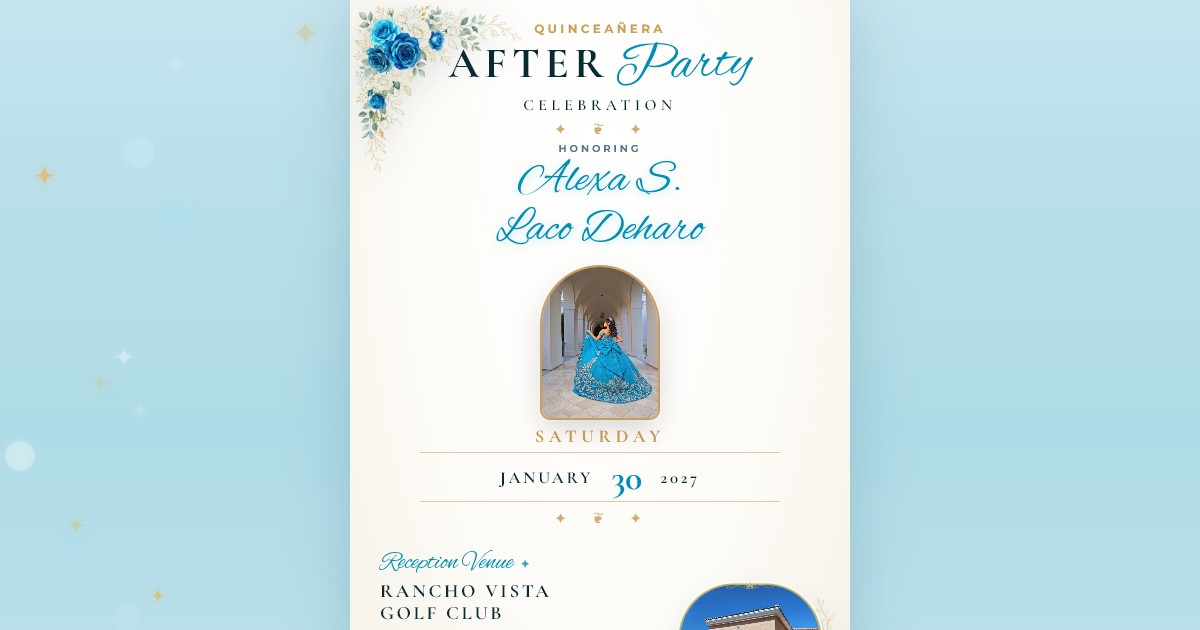
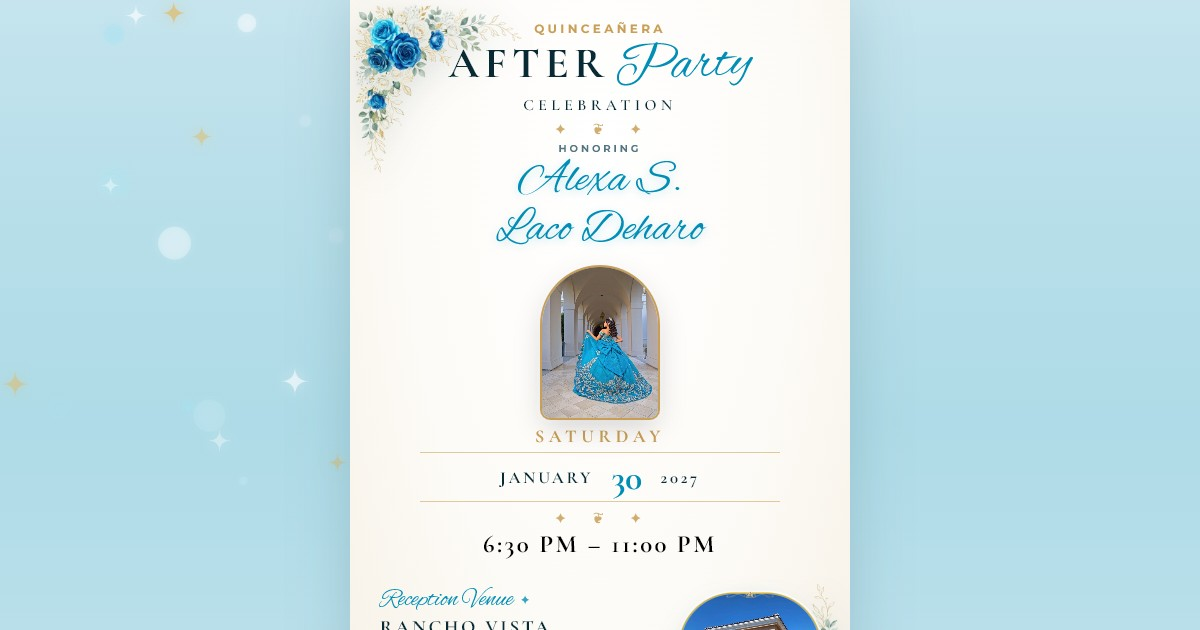
Move event time to circled space under date in bold black text on alexadeharoafter

diff --git a/alexadeharoafter/index.html b/alexadeharoafter/index.html
@@ -89,8 +89,8 @@
           </div>
         </section>
 
-        <!-- Event Details: Date -->
-        <section class="details-section" aria-label="Event Date">
+        <!-- Event Details: Date & Time -->
+        <section class="details-section" aria-label="Event Date and Time">
           <p class="event-day-name">SATURDAY</p>
           <div class="date-badge-row">
             <span class="date-badge-month">JANUARY</span>
@@ -98,14 +98,17 @@
             <span class="date-badge-year">2027</span>
           </div>
           <div class="fleuron-divider small-fleuron" aria-hidden="true">✦ &nbsp; ❦ &nbsp; ✦</div>
+          <div class="event-time-highlight">
+            <span>6:30 PM &ndash; 11:00 PM</span>
+          </div>
         </section>
 
-        <!-- Venue Section with Golf Club Photo and Obvious Big Time (Matching Main Invite Design) -->
-        <section class="venue-section" aria-label="Venue and Time">
+        <!-- Venue Section with Golf Club Photo (Matching Main Invite Design) -->
+        <section class="venue-section" aria-label="Venue">
           
           <div class="venue-stage venue-stage-reception">
             
-            <!-- Left: Venue details & Prominent Time between gold hairlines -->
+            <!-- Left: Venue details & Maps Link -->
             <div class="venue-copy">
               <div class="venue-header-row">
                 <span class="venue-role-badge">Reception Venue</span>
@@ -113,11 +116,6 @@
               </div>
               <h3 class="venue-title">RANCHO VISTA<br />GOLF CLUB</h3>
               <p class="venue-address">3905 Club Rancho Dr<br />Palmdale, CA 93551</p>
-
-              <!-- Prominent, Obvious Big Time (between two gold hairlines) -->
-              <div class="venue-time-tag">
-                <span>6:30 PM &ndash; 11:00 PM</span>
-              </div>
 
               <!-- Quiet Underlined Map Link (Open in Maps) -->
               <a href="https://www.google.com/maps/search/?api=1&amp;query=Rancho+Vista+Golf+Club,+3905+Club+Rancho+Dr,+Palmdale,+CA+93551"

diff --git a/alexadeharoafter/style.css b/alexadeharoafter/style.css
@@ -319,6 +319,24 @@ body {
   padding: 0 0.3rem;
 }
 
+/* ── Event Time Highlight (Circled Section: Black Text) ── */
+.event-time-highlight {
+  margin: clamp(0.2rem, 0.7vh, 0.45rem) 0 0.1rem;
+  display: flex;
+  align-items: center;
+  justify-content: center;
+  width: 100%;
+}
+
+.event-time-highlight span {
+  font-family: var(--font-serif);
+  font-size: clamp(1.25rem, 3.8vw, 1.55rem);
+  font-weight: 700;
+  letter-spacing: 0.10em;
+  color: #000000; /* Explicit black text as requested */
+  line-height: 1.15;
+}
+
 /* ── Venue Section (Matching Main Invitation Design / Attachment 1) ── */
 .venue-section {
   width: 100%;
@@ -334,7 +352,7 @@ body {
   width: 100%;
 }
 
-/* Left: Venue details & Big Prominent Time */
+/* Left: Venue details & Maps Link */
 .venue-copy {
   flex: 1;
   display: flex;
@@ -386,22 +404,7 @@ body {
   letter-spacing: 0.01em;
   line-height: 1.35;
   color: #334155;
-  margin-bottom: 0.65rem;
-}
-
-/* ── Obvious Big Time (Framed between gold hairlines like Attachment 1) ── */
-.venue-time-tag {
-  width: 100%;
-  border-top: 1px solid rgba(201, 159, 87, 0.75);
-  border-bottom: 1px solid rgba(201, 159, 87, 0.75);
-  padding: 0.4rem 0.1rem;
-  font-family: var(--font-serif);
-  font-size: clamp(1.22rem, 3.6vw, 1.4rem);
-  font-weight: 700;
-  letter-spacing: 0.06em;
-  color: #8c6f23;
-  margin-bottom: 0.75rem;
-  text-align: left;
+  margin-bottom: clamp(0.65rem, 1.5vh, 1.0rem);
 }
 
 /* ── Elegant Maps Link (Quiet underlined link like Attachment 1) ── */
